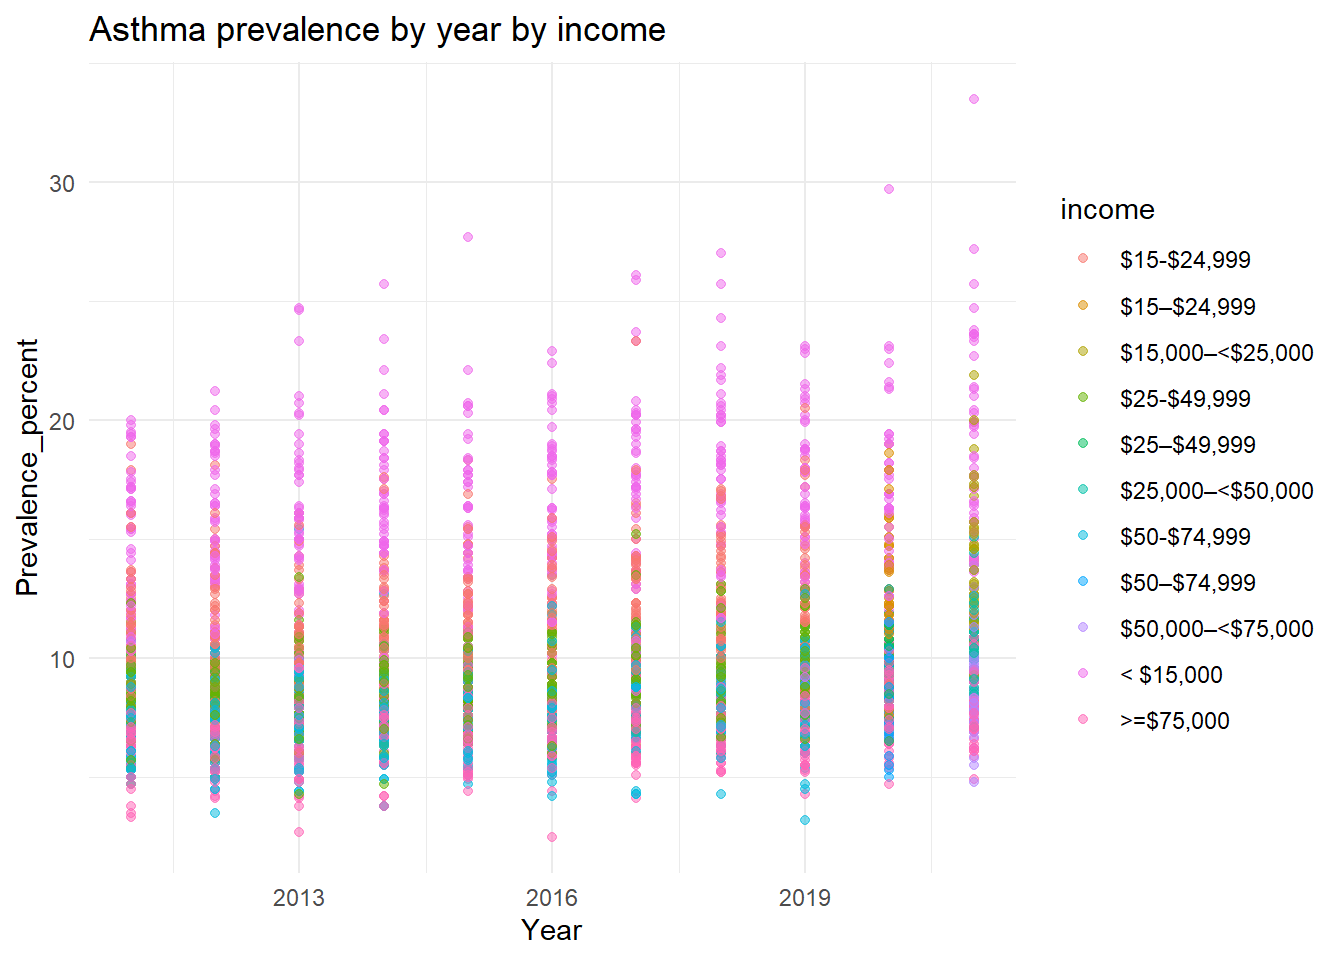
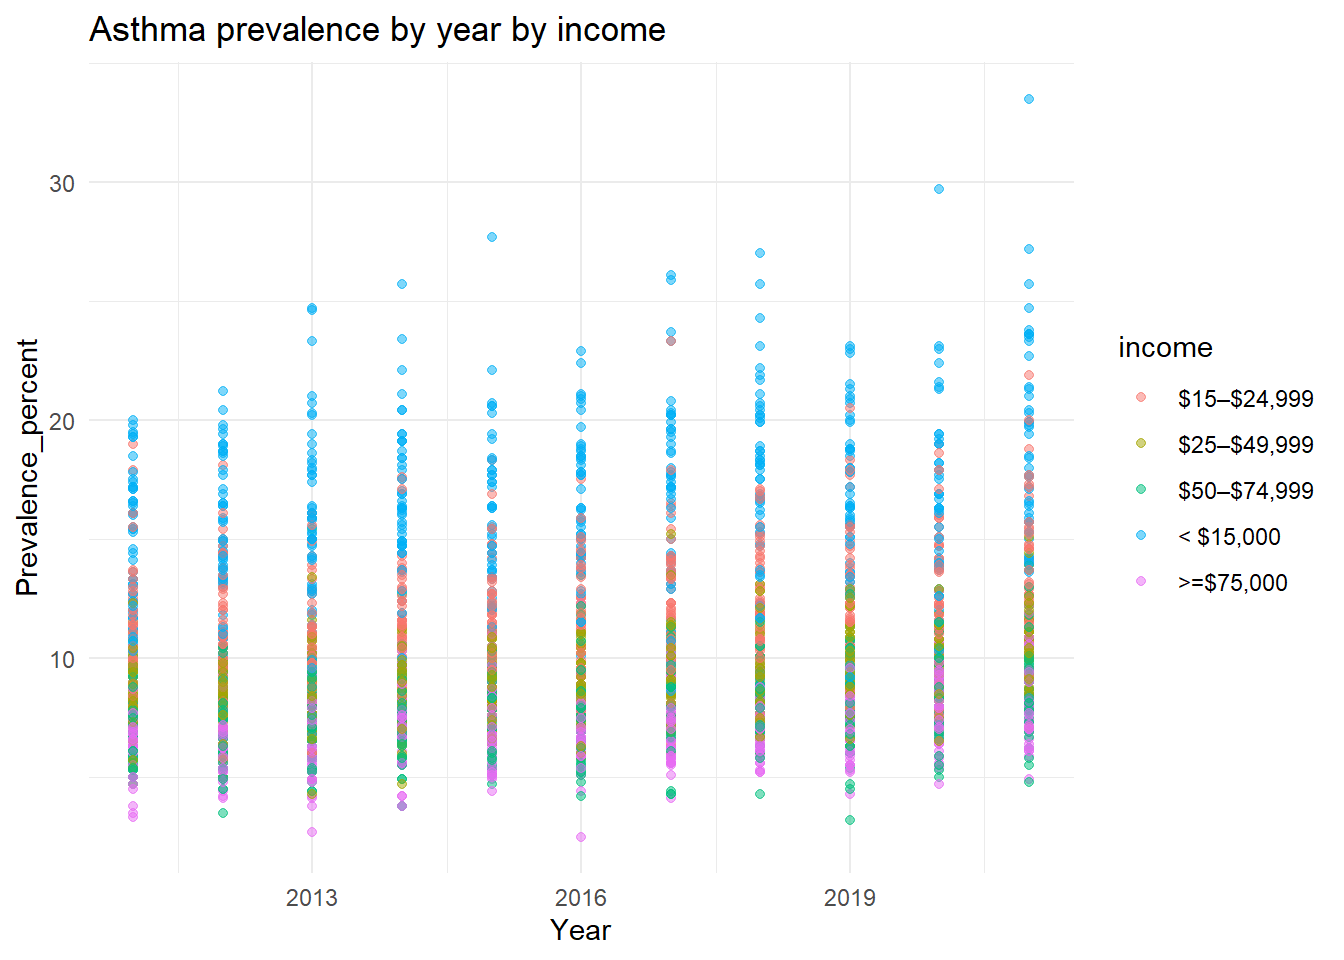
Finish the asthma data process

diff --git a/asthma_function.html b/asthma_function.html
@@ -422,6 +422,10 @@ asthma_prevalence %&gt;%
   ) +
   theme_minimal()</code></pre>
 <p><img src="asthma_function_files/figure-html/asthma%20prevalence-2.png" width="672" /></p>
+<p>Looking at the annual trend, we see that asthma prevalence show a
+slightly increasing trend since 2014. Looking at the states data, the
+highest prevalence are found in RI, ME, KY, WV and VT while the lowest
+prevalence are found in TX, FL, NE, LA, SD.</p>
 <h4>
 Race and income data
 </h4>
@@ -439,8 +443,10 @@ asthma_hmtl2 = function(url) {
     filter(!state %in% c(&quot;U.S. Total**&quot;, &quot;U.S. Totalf&quot;, &quot;Territories&quot;, &quot;PR&quot;, &quot;GU&quot;, &quot;VI&quot;)) %&gt;% 
     mutate(prevalence_percent = as.numeric(prevalence_percent))
 }</code></pre>
-<p><b>Race</b> In the race data, we merged “multi” and “multirace” as
-the same category to help simplify the category available.</p>
+<p><b>Race</b> For race data, since 2021 the survey collected race and
+ethinicity data, so the categories are slightly different. We keep the
+new terms, however we merged “multi” and “multirace” as the same
+category to help simplify the category available.</p>
 <pre class="r"><code>asthma_prace = 
   tibble(
     year_name = 2011:2021,
@@ -471,7 +477,8 @@ asthma_prace = asthma_prace %&gt;%
 
 asthma_prace %&gt;% 
   ggplot(aes(x = year_name, y = prevalence_percent, color = race)) + 
-  geom_point(alpha = 0.5) + 
+  geom_boxplot() + 
+  facet_wrap(~ race) +
   labs(
     x = &quot;Year&quot;,
     y = &quot;Prevalence_percent&quot;,
@@ -479,9 +486,17 @@ asthma_prace %&gt;%
   ) +
   theme_minimal()</code></pre>
 <p><img src="asthma_function_files/figure-html/race-1.png" width="672" /></p>
+<p>People identified as Black and Multirace have higher asthma
+prevalence distribution compared to the other groups, while While and
+White NH have the lowest. This suggest that asthma may be correlated
+with race, which will be investigated further in the analysis.</p>
 <pre class="r"><code>asthma_prace = asthma_prace %&gt;%
   nest(race, prevalence_percent)</code></pre>
-<p><b>Income data</b></p>
+<p><b>Income data</b> For the income data, in 2020 they used “-” instead
+of “–” and in 2021 they changed the upper limit in the range to
+&lt;$25,000, $50,000 and $75,000 (instead of $24,999, $49,999 and
+$74,000). We merged the data by mutating the dash and the
+categories.</p>
 <pre class="r"><code>asthma_pincome = 
   tibble(
     year_name = 2011:2021,
@@ -500,7 +515,15 @@ asthma_prace %&gt;%
   ) %&gt;% 
   mutate(asthma_byyear = map(data_url, asthma_hmtl2)) %&gt;% 
   unnest(asthma_byyear) %&gt;% 
-  select(-data_url, -sample_size, -sample_sizec)
+  select(-data_url, -sample_size, -sample_sizec) %&gt;% 
+  mutate(
+    income = case_when(income == &quot;$15-$24,999&quot; ~ &quot;$15–$24,999&quot;, TRUE ~ income),
+    income = case_when(income == &quot;$15,000–&lt;$25,000&quot; ~ &quot;$15–$24,999&quot;, TRUE ~ income),
+    income = case_when(income == &quot;$25-$49,999&quot; ~ &quot;$25–$49,999&quot;, TRUE ~ income),
+    income = case_when(income == &quot;$25,000–&lt;$50,000&quot; ~ &quot;$25–$49,999&quot;, TRUE ~ income),
+    income = case_when(income == &quot;$50-$74,999&quot; ~ &quot;$50–$74,999&quot;, TRUE ~ income), 
+    income = case_when(income == &quot;$50,000–&lt;$75,000&quot; ~ &quot;$50–$74,999&quot;, TRUE ~ income)
+    )
 
 asthma_pincome %&gt;% 
   ggplot(aes(x = year_name, y = prevalence_percent, color = income)) + 
@@ -512,6 +535,11 @@ asthma_pincome %&gt;%
   ) +
   theme_minimal()</code></pre>
 <p><img src="asthma_function_files/figure-html/income-1.png" width="672" /></p>
+<p>People in the lowest income level (&lt;$15,000) has the highest
+asthma prevalence across all years while people in the highest income
+level (&gt;=$75,000) has the lowest prevalence. This suggest that asthma
+is correlated with income, which will be investigated further in the
+analysis.</p>
 <pre class="r"><code>asthma_pincome = asthma_pincome %&gt;% 
   nest(income, prevalence_percent)</code></pre>
 <h4>
@@ -955,35 +983,29 @@ summary(model)</code></pre>
 ## 
 ## Residuals:
 ##     Min      1Q  Median      3Q     Max 
-## -3.1874 -0.2347  0.0337  0.2761  1.7347 
+## -3.1842 -0.2364  0.0347  0.2758  1.7361 
 ## 
 ## Coefficients:
-##                          Estimate Std. Error t value Pr(&gt;|t|)    
-## (Intercept)             0.4986322  0.0169748  29.375  &lt; 2e-16 ***
-## raceMultirace           0.2942920  0.0127702  23.045  &lt; 2e-16 ***
-## raceOther              -0.3190703  0.0127233 -25.078  &lt; 2e-16 ***
-## raceWhite              -0.1720466  0.0126503 -13.600  &lt; 2e-16 ***
-## raceBlack NH            0.2853540  0.0394754   7.229 5.22e-13 ***
-## raceHispanic           -0.0381239  0.0388419  -0.982  0.32636    
-## raceOther NH            0.0325311  0.0371618   0.875  0.38138    
-## raceWhite NH            0.0403489  0.0356996   1.130  0.25840    
-## income$25-$49,999      -0.2893334  0.0147897 -19.563  &lt; 2e-16 ***
-## income$50-$74,999      -0.4159665  0.0147897 -28.125  &lt; 2e-16 ***
-## income&lt; $15,000         0.3194432  0.0143536  22.255  &lt; 2e-16 ***
-## income&gt;=$75,000        -0.4899071  0.0143536 -34.131  &lt; 2e-16 ***
-## income$15–$24,999       0.1213614  0.0369204   3.287  0.00102 ** 
-## income$25–$49,999      -0.0978752  0.0369204  -2.651  0.00804 ** 
-## income$50–$74,999      -0.2437244  0.0369204  -6.601 4.27e-11 ***
-## income$15,000–&lt;$25,000  0.0478602  0.0440871   1.086  0.27769    
-## income$25,000–&lt;$50,000 -0.2214611  0.0439235  -5.042 4.68e-07 ***
-## income$50,000–&lt;$75,000 -0.3858799  0.0442533  -8.720  &lt; 2e-16 ***
-## avg_temp_yearly        -0.0257547  0.0009098 -28.308  &lt; 2e-16 ***
+##                     Estimate Std. Error t value Pr(&gt;|t|)    
+## (Intercept)        0.5072159  0.0165999  30.555   &lt;2e-16 ***
+## raceMultirace      0.2931188  0.0128027  22.895   &lt;2e-16 ***
+## raceOther         -0.3189356  0.0127565 -25.002   &lt;2e-16 ***
+## raceWhite         -0.1697599  0.0126798 -13.388   &lt;2e-16 ***
+## raceBlack NH       0.3068400  0.0343620   8.930   &lt;2e-16 ***
+## raceHispanic      -0.0163320  0.0335693  -0.487   0.6266    
+## raceOther NH       0.0542074  0.0316902   1.711   0.0872 .  
+## raceWhite NH       0.0620622  0.0298948   2.076   0.0379 *  
+## income$25–$49,999 -0.2825581  0.0136528 -20.696   &lt;2e-16 ***
+## income$50–$74,999 -0.4135786  0.0136593 -30.278   &lt;2e-16 ***
+## income&lt; $15,000    0.3067330  0.0136560  22.461   &lt;2e-16 ***
+## income&gt;=$75,000   -0.5026359  0.0136528 -36.816   &lt;2e-16 ***
+## avg_temp_yearly   -0.0255751  0.0009119 -28.047   &lt;2e-16 ***
 ## ---
 ## Signif. codes:  0 &#39;***&#39; 0.001 &#39;**&#39; 0.01 &#39;*&#39; 0.05 &#39;.&#39; 0.1 &#39; &#39; 1
 ## 
-## Residual standard error: 0.4421 on 10518 degrees of freedom
-## Multiple R-squared:  0.4395, Adjusted R-squared:  0.4386 
-## F-statistic: 458.2 on 18 and 10518 DF,  p-value: &lt; 2.2e-16</code></pre>
+## Residual standard error: 0.4432 on 10524 degrees of freedom
+## Multiple R-squared:  0.4363, Adjusted R-squared:  0.4356 
+## F-statistic: 678.7 on 12 and 10524 DF,  p-value: &lt; 2.2e-16</code></pre>
 <p>R-squared: 0.4398 (~44%), meaning the model explains ~44% of the
 variance in the log-transformed prevalence. Adjusted R-squared: 0.4388,
 similar to the R-squared, indicating that the model generalizes well
